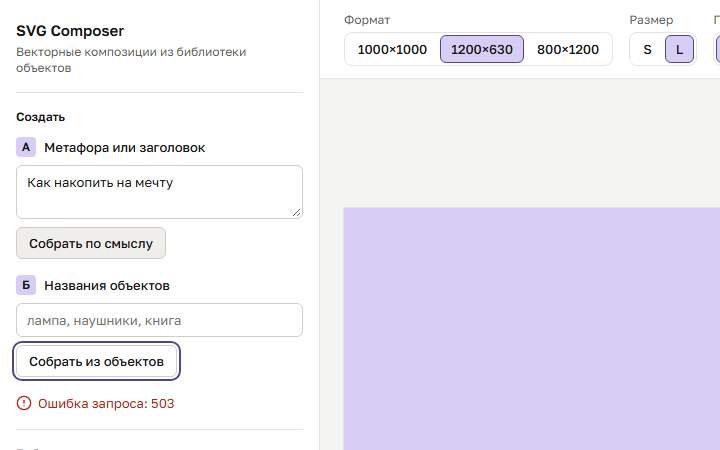
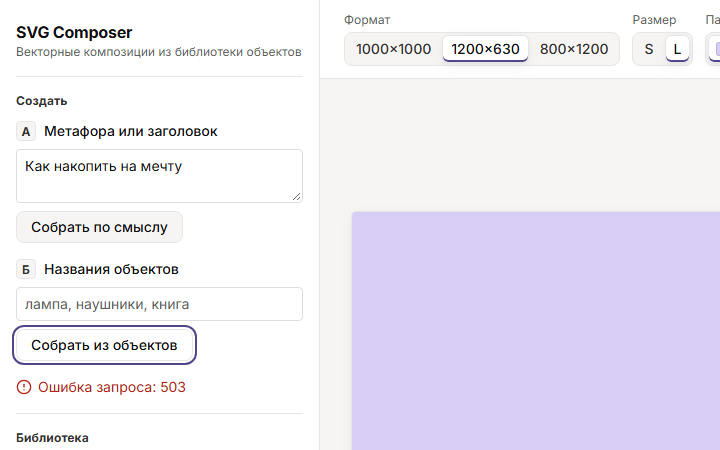
DESIGN.md: адаптация системы Notion, отступления; новые скриншоты «после»

diff --git a/DESIGN.md b/DESIGN.md
@@ -24,26 +24,58 @@
 
 ## План
 
-**Сетка.** Шаг 4 px, отступы 8/12/16/24. Панель 320 px слева, справа сцена:
-тулбар (одна строка на десктопе, перенос по группам на узких экранах) и холст по центру.
-На ширине < 800 px — одна колонка: тулбар → холст → панель.
-
 **Иерархия панели.** Создать (А — по смыслу, Б — по названиям) → Библиотека →
 Объект (только при выделении) → Слои. Заголовки секций 12 px, полужирные, с разделителем.
 
-**Типографика.** Golos Text (кириллический гротеск, @fontsource, локально),
-начертания 400/500/600. Размеры: 13 (основной UI), 12 (подписи, метки групп), 15 (логотип).
+## Дизайн-система
 
-**Цвет.** Нейтральная тёплая серая основа (`#f4f4f2` фон, `#fff` панель, `#e4e3df` линии,
-текст `#181817` / `#5c5b57`). Акцент — из активной схемы через CSS-переменные:
-`--accent-soft` = `bg1` (фон активных элементов), `--accent-strong` = смесь `bg3` и `ink`
-60/40 (рамки активных элементов, кольцо фокуса, рамка выделения). Текст на акцентах
-всегда `ink`; контраст ≥ 4.5:1 проверяется тестом для всех схем. Основная кнопка —
-`ink` с белым текстом. Скругления 6–8 px, тени только у холста (1 px линия вместо тени).
+Основа — разбор дизайн-языка Notion из каталога [getdesign.md](https://getdesign.md/notion/design-md)
+(независимый анализ публичного сайта, не официальная система). Берём принципы и токены,
+без логотипов и фирменных элементов. Почему подходит: тихий тёплый интерфейс,
+вся «живость» — в иллюстрациях, ровно один структурный акцент.
 
-**Состояния.** hover — фон на тон темнее; active (нажатие) — сдвиг 1 px; on —
-`--accent-soft` + рамка `--accent-strong`; focus-visible — кольцо 2 px `--accent-strong`
-с отступом 2 px; disabled — 40 % непрозрачности и `cursor: not-allowed`.
+**Принципы.**
+- Интерфейс почти монохромный; цвета схемы живут только в иллюстрациях
+  (холст и плитки миниатюр в библиотеке) — как «стикерная» палитра Notion.
+- Один структурный акцент `--primary` — основная кнопка, индикатор выбранного, фокус,
+  рамка выделения. Второго акцента нет.
+- Поверхности разделяются волосяными линиями; тень — только многослойная Level-1
+  (выбранный сегмент, наведение на карточку, лист холста).
+
+**Цвета** (`src/styles.css`, `:root`).
+
+| Токен | Значение | Где |
+|---|---|---|
+| `--canvas-soft` | `#f6f5f4` | фон страницы и сцены, дорожка переключателей |
+| `--surface` | `#ffffff` | панель, тулбар, карточки, поля |
+| `--hairline` / `--field-border` | `#e6e6e6` / `#dddddd` | линии и рамки / рамки полей |
+| `--ink` | чёрный 95 % | основной текст |
+| `--ink-secondary` / `--ink-muted` | `#31302e` / `#615d59` | вторичный текст / подписи, плейсхолдеры |
+| `--primary` | `bg3` схемы, смешанный 60/40 с `#181817` | единственный акцент (у Notion — синий) |
+| `--sticker` | `bg1` схемы | фон миниатюр |
+| `--danger` | `#b42318` | ошибка (у Notion нет семантических цветов — наше дополнение) |
+
+Контраст по WCAG AA проверяется тестом `tests/contrast.test.ts` для всех схем:
+белый текст на `--primary` ≥ 4.5:1, индикаторы ≥ 3:1, все нейтральные пары ≥ 4.5:1.
+
+**Типографика.** Inter (замена NotionInter, кириллица, @fontsource, локально),
+начертания 400 / 500 / 700. Основной UI 14/20, подписи и метки групп 12/16,
+заголовки секций 12/16 700 с трекингом +0.125 px, название 16/24 700 с трекингом −0.2 px.
+
+**Сетка и форма.** Шаг 4 px, отступы 4/8/12/16/24/32. Панель 320 px слева, справа
+тулбар и холст. На ширине < 800 px — одна колонка: тулбар → холст → панель.
+Скругления: поля, теги, миниатюры — 4 px; кнопки, переключатели, карточки — 8 px.
+
+**Отступления от Notion.**
+- Нет «таблеток» (`rounded.full`) у кнопок и карточек 12 px — по ограничению проекта
+  «скругления ≤ 8–10 px» всё на 8 px, как у utility-кнопок Notion.
+- Нет тёмной «ночной» hero-полосы: в редакторе нет маркетингового экрана.
+- Добавлены цвет ошибки и hover-состояния (в разборе описаны только default/pressed).
+
+**Состояния.** hover — фон `--canvas-soft` или 4 % чёрного; нажатие — `scale(0.97)`
+(у Notion — 0.9 на маркетинговых кнопках); выбранный сегмент — белая плашка с Level-1
+и линией `--primary` снизу; выбранный слой — 7 % чёрного и полоса `--primary` слева;
+focus-visible — кольцо 2 px `--primary`; поле в фокусе — Level-1; disabled — 40 %.
 Пустой холст, загрузка А (спиннер в кнопке, skeleton на холсте, `aria-busy`), ошибка
 (красный текст с иконкой в `aria-live`-статусе).
 
